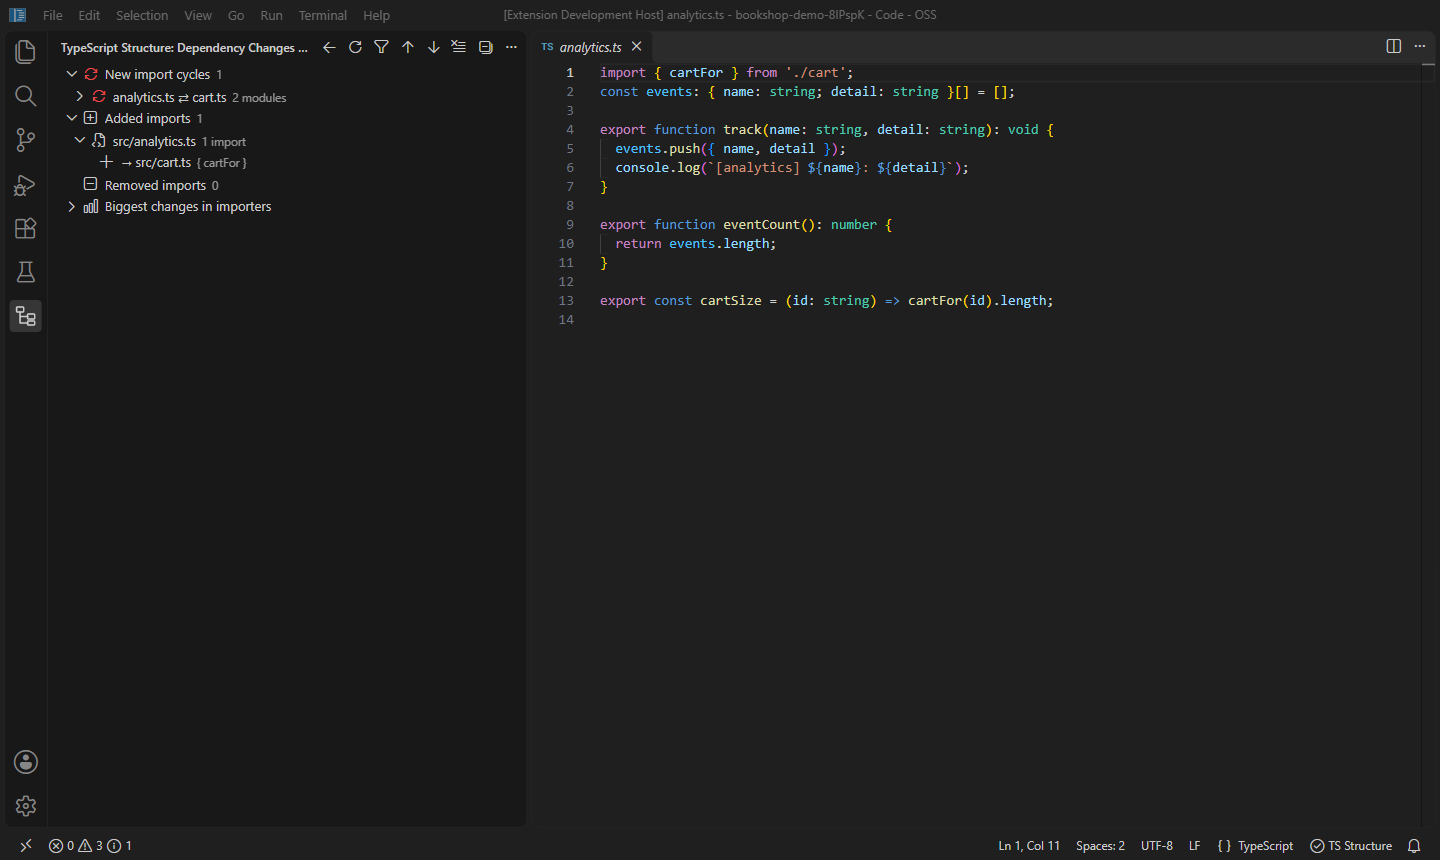
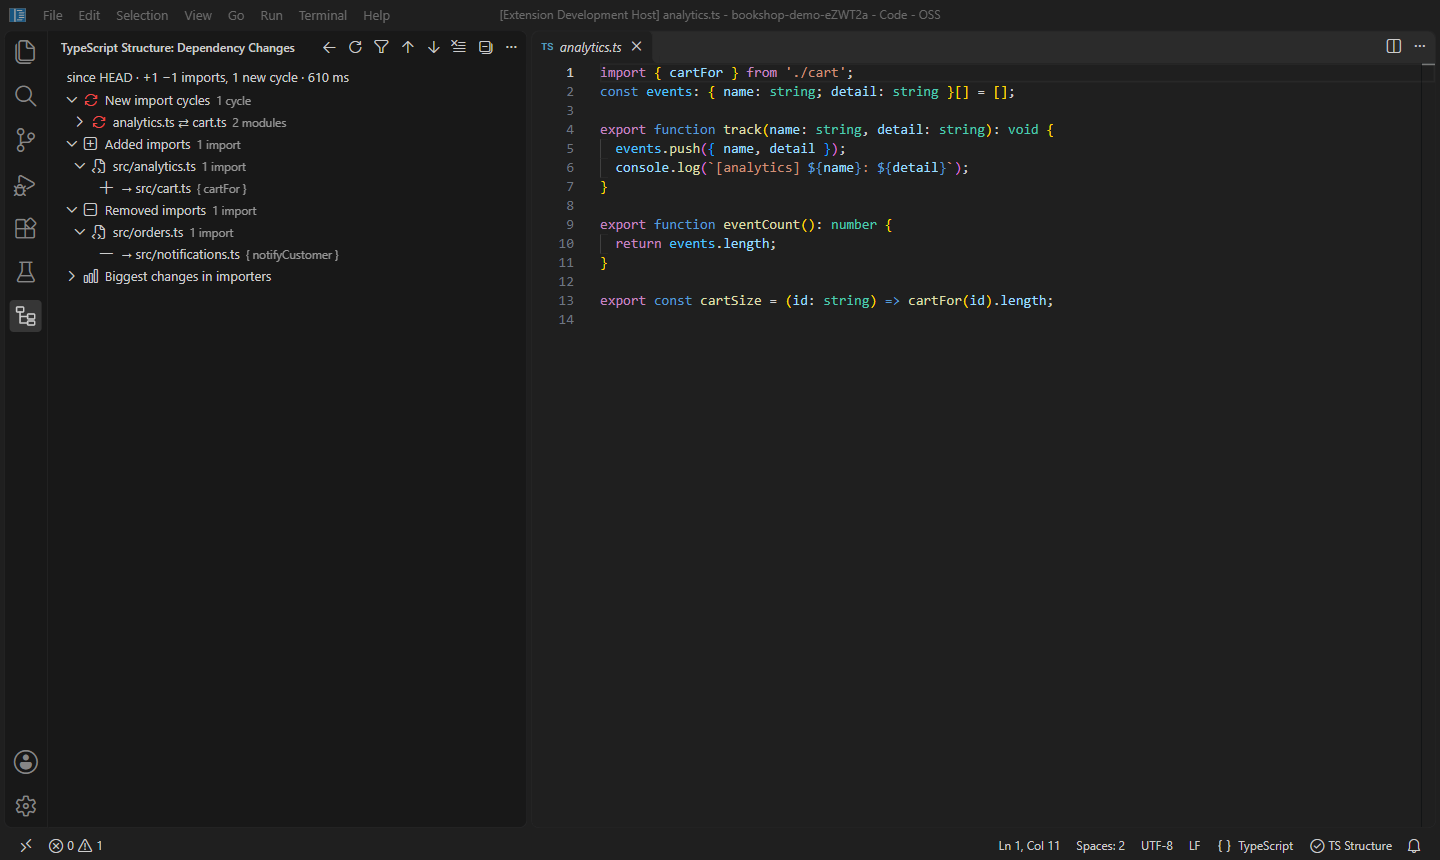
Guide: Dependency Graph Diff, with a screenshot

Changed region(s): [[0.0312, 0.0605, 0.2188, 0.3326], [0.3438, 0.0, 0.6562, 0.0302], [0.0625, 0.9674, 0.0938, 0.9977]]

diff --git a/README.md b/README.md
@@ -504,6 +504,20 @@ Every analysis can be started three ways: from the editor's right-click menu und
 6. If there is no dependency, the report says so, and shows the reverse direction if there is one.
 7. If the two modules depend on each other at runtime, the report warns about the cycle and lists the paths back under **Circular**.
 
+### Dependency Graph Diff
+
+![Dependency changes since HEAD: analytics.ts now imports cart.ts, creating a new cycle, and orders.ts no longer imports notifications.ts](docs/images/graph-diff.png)
+
+1. Open a file of the project in a Git repository and run **Dependency Graph Diff…**. It needs `git` on your `PATH`.
+2. Choose what to compare with:
+   - **HEAD**, for uncommitted changes;
+   - the **branch point** with `main`, for everything on your branch;
+   - **HEAD~1**, a recent commit, a branch, or any revision you type.
+3. **New import cycles** come first, in red, such as *analytics.ts ⇄ cart.ts*. They are the changes most worth catching in review. **Cycles removed** lists the ones your change broke up.
+4. **Added imports** and **Removed imports** are grouped by the importing file, with the names each one brings in. **Changed imports** are existing imports whose names changed, or that switched between type-only and runtime.
+5. **Modules** lists added and removed files. **Biggest changes in importers** shows modules whose number of importers changed most, which hints at new hubs or modules being phased out.
+6. The working tree includes unsaved editor changes, so you can check an edit before saving.
+
 ## Test Impact Analysis
 
 ### Usage
